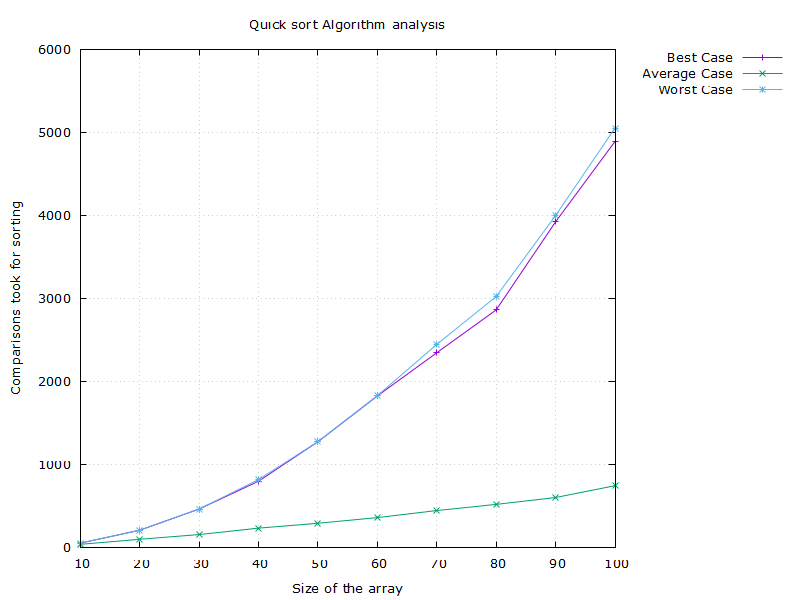
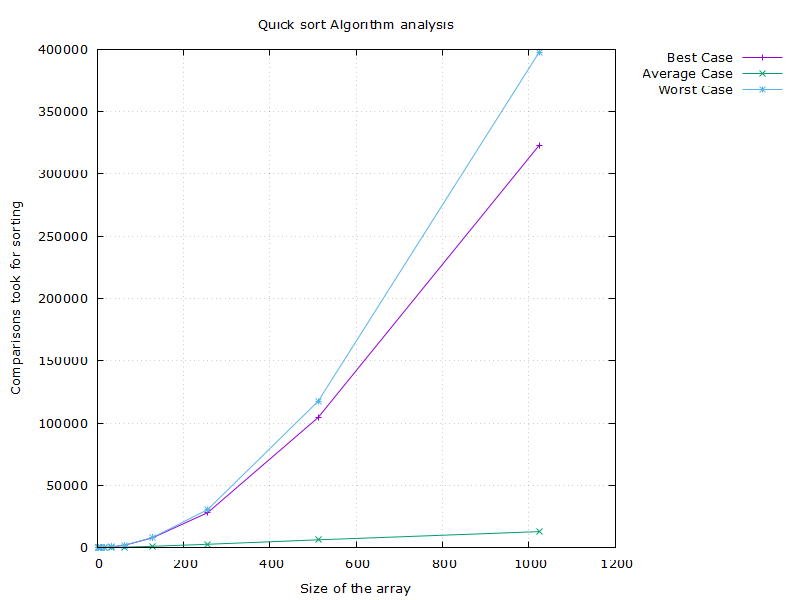
Restarted ada lab completion of the pending programs.

diff --git a/4.StringMatching/StringMatchingBenchmark.java b/4.StringMatching/StringMatchingBenchmark.java
@@ -1,5 +1,8 @@
+import java.io.FileWriter;
+import java.io.IOException;
+
 public class StringMatchingBenchmark {
-    private int stringMathching(String text, String pattern) {
+    private int stringMatching(String text, String pattern) {
         int count = 0;
         for (int i = 0; i <= text.length() - pattern.length(); i++) {
             int j = 0;
@@ -10,9 +13,43 @@ public class StringMatchingBenchmark {
                     break;
                 }
             }
-            if (j == text.length())
-                return count;
         }
         return count;
+    }
+
+    public void plot() {
+        try (FileWriter file = new FileWriter("./string_data.dat")) {
+            StringBuilder text = new StringBuilder();
+            for (int i = 0; i < 1000; i++)
+                text.append('a');
+
+            file.write("#size best average worst\n");
+            int length = 10;
+            while (length <= 1000) {
+                StringBuilder pattern = new StringBuilder();
+                for (int i = 0; i < length; i++) {
+                    pattern.append('a');
+                }
+                int worst = stringMatching(text.toString(), pattern.toString());
+                pattern.setCharAt(length - 1, 'b'); // Calculate worst case first
+
+                int average = stringMatching(text.toString(), pattern.toString()); // Then average case
+                pattern.setCharAt(length - 1, 'a'); // Reset pattern for best case calculation
+
+                int best = stringMatching(text.toString(), pattern.toString());
+
+                file.write(length + " " + best + " " + average + " " + worst + "\n");
+
+                length += length < 100 ? 10 : 100;
+            }
+        } catch (IOException e) {
+            System.out.println("An error occurred while writing to files.");
+            e.printStackTrace();
+        }
+    }
+
+    public static void main(String[] args) {
+        StringMatchingBenchmark string = new StringMatchingBenchmark();
+        string.plot();
     }
 }

diff --git a/3.Sorting/Plotter.java b/3.Sorting/Plotter.java
@@ -19,7 +19,11 @@ public class Plotter {
 
             dataFile.write("#size best average worst\n");
 
-            for (int size = 10; size <= 100; size += 10) {
+            boolean divideOrBrute = sortType.equals("merge") || sortType.equals("quick");
+
+            for (int size = divideOrBrute ? 2 : 10; size <= (divideOrBrute ? 1024 : 100); size = divideOrBrute
+                    ? size * 2
+                    : size + 10) {
                 int[] bestArray = GenerateRandomArray.generateRandomArray(size, minVal, maxVal);
 
                 Arrays.sort(bestArray);

diff --git a/3.Sorting/Sorting.java b/3.Sorting/Sorting.java
@@ -83,6 +83,7 @@ public class Sorting {
             }
         }
         swap(array, i + 1, high);
+        count++;
         return new int[] { i + 1, count };
     }
 
